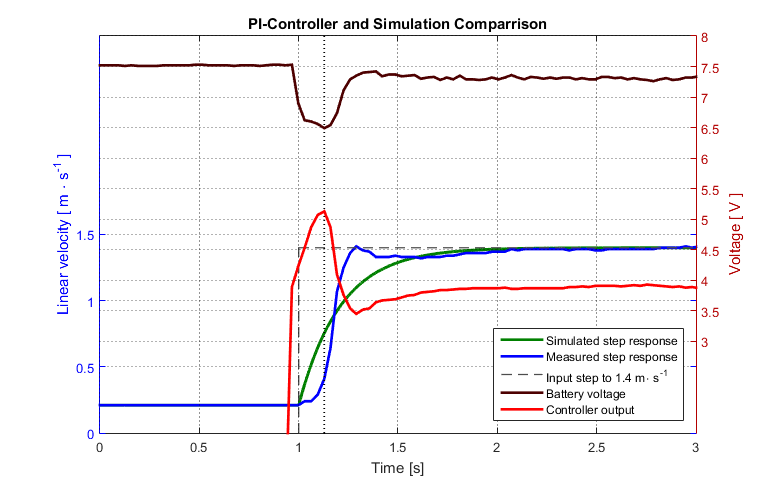
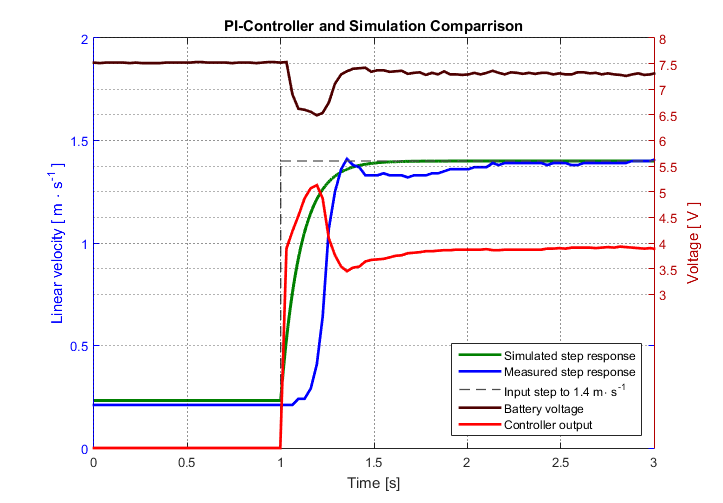
Almost pretty much finish the velocity controller section

diff --git a/Chapters/Chapter4/VelocityController.tex b/Chapters/Chapter4/VelocityController.tex
@@ -1,5 +1,5 @@
 \section{Velocity Controller}\label{sec:velocityController}
-The perpose of the velocity controller is to keep the vehicle at a steady velocity. The PID-controller is the most commonly used - proportional integral differential controller. Often all 3 components are not needed to control the system. Different approaches are explored in the following, starting with the proportional controller.
+The purpose of the velocity controller is to keep the vehicle at a steady velocity. The PID-controller is the most commonly used - proportional integral differential controller. Often all 3 components are not needed to control the system. Different approaches are explored in the following, starting with the proportional controller.
 
 \subsection{P-Controller}
 As seen on \figref{proportionalController} the P-controller is simply a proportional gain which is multiplied in the direct term.
@@ -57,7 +57,7 @@ If this is compared to the resulting closed loop transfer function for the origi
 %
 \begin{figure}[H]
  	\centering
- 	\includegraphics[width=\textwidth]{figures/stepPfeedForward}
+ 	\includegraphics[width=.8\textwidth]{figures/stepPfeedForward}
  	\caption{Proportional control with feed forward. The simulation is first order while the vehicle is second order due to the armature coils in the motor.}
  	\label{fig:stepPfeedForward}
 \end{figure}
@@ -69,14 +69,14 @@ The P-controller with feed forward seem to be a good choice, however if subjecte
 %
 \begin{figure}[H]
  	\centering
- 	\includegraphics[width=\textwidth]{figures/hillPfeedForward}
+ 	\includegraphics[width=.8\textwidth]{figures/hillPfeedForward}
  	\caption{When the P-controller with feed forward is subjected to constant disturbances, the gain of the system changes and the proportional gain and set-point is no longer sufficient, to avoid steady state error.}
  	\label{fig:hillPfeedForward}
 \end{figure}
 %
 Since the vehicle steers by breaking on one side, this kind of steady state error will not only occur when encountering slopes, but every time the vehicle turns. To find a better solution a proportional integral controller is considered in the following section.
 %
-\subsection{PI-Controller}
+\subsection{PI-Controller} \label{sec:PIcalc}
 To attack the new offset-problem caused by changes in the system gain when disturbances enter the system, a proportional integral controller is the next natural choice. The reason for choosing a PI-controller is because the I-component integrates over the error. This component therefore increases or decreases over time, and so has an adaptive effect on the system. The design is outlined in \figref{proportionalIntegratorController}
 %
 \begin{figure}[H]
@@ -119,7 +119,7 @@ On \figref{fig:ControllerSteps} the different controller designs are simulated b
 %
 \begin{figure}[H]
  	\centering
- 	\includegraphics[width=\textwidth]{figures/ControllerSteps}
+ 	\includegraphics[width=.8\textwidth]{figures/ControllerSteps}
  	\caption{Diagram of the proportional controller}
  	\label{fig:ControllerSteps}
  \end{figure}
@@ -147,7 +147,7 @@ On \figref{fig:PIcontrollerStepRealVsSim} a step response of an implemented PI-c
 %
 \begin{figure}[H]
  	\centering
- 	\includegraphics[width=\textwidth]{figures/PIcontrollerStepRealVsSim}
+ 	\includegraphics[width=.8\textwidth]{figures/PIcontrollerStepRealVsSim}
  	\caption{Diagram of the proportional integral controller compared to simulation}
  	\label{fig:PIcontrollerStepRealVsSim}
 \end{figure}
@@ -157,7 +157,7 @@ If this implementation is investigated at different velocity steps, a certain ch
 %
 \begin{figure}[H]
  	\centering
- 	\includegraphics[width=\textwidth]{figures/multiStepPI}
+ 	\includegraphics[width=.8\textwidth]{figures/multiStepPI}
  	\caption{Diagram of the proportional controller}
  	\label{fig:multiStepPI}
 \end{figure}
@@ -166,7 +166,7 @@ The system overshoots before reaching the reference velocity. To investigate thi
 %
 \begin{figure}[H]
  	\centering
- 	\includegraphics[width=\textwidth]{figures/PInoAntiWindup}
+ 	\includegraphics[width=.8\textwidth]{figures/PInoAntiWindup}
  	\caption{Diagram of the proportional controller}
  	\label{fig:PInoAntiWindup}
 \end{figure}
@@ -176,29 +176,58 @@ The overshoot happens after the battery voltage saturation, and so the answer mu
 When the velocity of the vehicle rises, the error naturally falls. The controller output follows this fall of the error. While the integral gain keeps building the \si{V_{error}\cdot K_p} keeps getting smaller due to the rise of the velocity towards the reference. This means that the controller output will keep falling until the integral gain takes over, becoming the most dominant of the two. This is where the controller makes a negative overshoot.
 While the controller output was falling beyond its settle value (5 V), the velocity kept going up due to delay cause by inertia in the system. The controller output now rising from the influence of the integral gain, also has a delayed effect on the system.
 To conclude, the overshoot of the velocity happening before it reaches its reference is caused by the negative overshoot of the controller output, which originates from the scaling of \si{K_p} and \si{K_i}.
+In the following section this overshoot will be further investigated.
+%
+\subsection{Implementation of the PI controller}
+The functional part of the implementation is seen in \autoref{lst:PIimplementation}. The \emph{Actualspeed} is set from the average of recorded speeds of the two belts, from the Hall sensors. Then the error is calculated by comparison between the feedback, \emph{Actualspeed}, and the reference, \emph{Wantedspeed}.
+A quick glance at \figref{fig:PInoAntiWindup}, reveals a problem, where the controller output exceeds the battery voltage. This is called empty integral windup, and can be prevented by implementing anti windup, which locks the integral error so that it does not make the controller output voltage exceed the saturation of the battery\todo{source here}. The first if-statement in \autoref{lst:PIimplementation}, is a very simple implementation of an anti-windup functionality, and the effect is clearly demonstrated by repeating the test from \figref{fig:PInoAntiWindup} with anti windup, as seen on figure \figref{fig:PIwithAntiWindup}.
+
+%
+\lstset{language=C++, caption={Implementation of the PI-controller}, label=lst:PIimplementation}
+\begin{lstlisting}
+Actualspeed = (speed0 + speed1)/2; // Average speed of the vehicle
+
+Error = Wantedspeed - Actualspeed;                 //  ANTI-WINDUP:
+                                                   //  Only increase integral error if
+if( ControllerOutput < ((float)batReading/102.4) ) //<-the battery is not in saturation
+{
+  Integral = Integral + (Error*0.030); //Delta t = 0.03 s = sample time i.e. 30 ms
+}
+
+ControllerOutput = ((Kp * Error) + (Ki * Integral) + Stiction);
+
+DutyPrSpeed = 100.0/((float)batReading/102.4); // Duty cycle pr volt [% pr V]
+                                               // batReading/102.4 = volts
+Duty = ControllerOutput * DutyPrSpeed;
+
+if(Duty > 100) Duty = 100;  //maximum duty cycle = 100 %
+if(Duty < 0) Duty = 0;      //minimum duty cycle =   0 %
+\end{lstlisting}
 %
 \begin{figure}[H]
  	\centering
- 	\includegraphics[width=\textwidth]{figures/PIwidthAntiWindup}
+ 	\includegraphics[width=.8\textwidth]{figures/PIwidthAntiWindup}
  	\caption{Diagram of the proportional controller}
- 	\label{fig:PIwidthAntiWindup}
+ 	\label{fig:PIwithAntiWindup}
 \end{figure}
 %
-5
+After making sure that the battery is not in saturation the integral error is increased or decreased depending on weather the error is positive or negative, see line 7 in \autoref{lst:PIimplementaion}. Finally in line 10 the \emph{ControllerOutput} is calculated, including the proportional gain, \si{K_p}, and the integral gain, \si{K_i}, along with the \emph{Stiction}, which is a voltage offset to counter the effect of stiction.
+The duty cycle is then calculated in line 12 and 14, where it is scaled according to the current battery voltage, so that each controller output applies the calculated voltage, regardless of the battery voltage. This implementation with the calculated proportional and integral constants, see \secref{sec:PIcalc}, is tested at \si{1.4 m\cdot s^{-1}}, see \figref{fig:CalculatedPI}.
 %
 \begin{figure}[H]
  	\centering
- 	\includegraphics[width=\textwidth]{figures/CalculatedPI}
+ 	\includegraphics[width=.8\textwidth]{figures/CalculatedPI}
  	\caption{Diagram of the proportional controller}
  	\label{fig:CalculatedPI}
 \end{figure}
 %
-
+The reality diverges from the simulation as previously mentioned, because it is a first order approximation. The previously addressed controller overshoot, can be minimized by tuning the proportional and integral gain, so that the transition between dominance of the two gains, becomes more smooth at the wanted operation speed, \si{1.4 m\cdot s^{-1}}. The tuning has been done with multiple iterations applying a trial and error approach. The result is shown on \figref{fig:TunedPI}, where the dip in the battery voltage is minimal, due to the longer rise-time, which also minimizes overshoot. 
 %
 \begin{figure}[H]
  	\centering
- 	\includegraphics[width=\textwidth]{figures/TunedPI}
+ 	\includegraphics[width=.8\textwidth]{figures/TunedPI}
  	\caption{Diagram of the proportional controller}
  	\label{fig:TunedPI}
 \end{figure}
 %
+The test is carried out on a ramp, which goes up and then flattens out. The same ramp was used for testing the P-controller with feed forward, see \figref{fig:hillPfeedForward}, where a steady state error occurred, while on the hill. Whereas the PI-controller's integral gain closes this steady state error, and so keeps the speed when on the hill.
